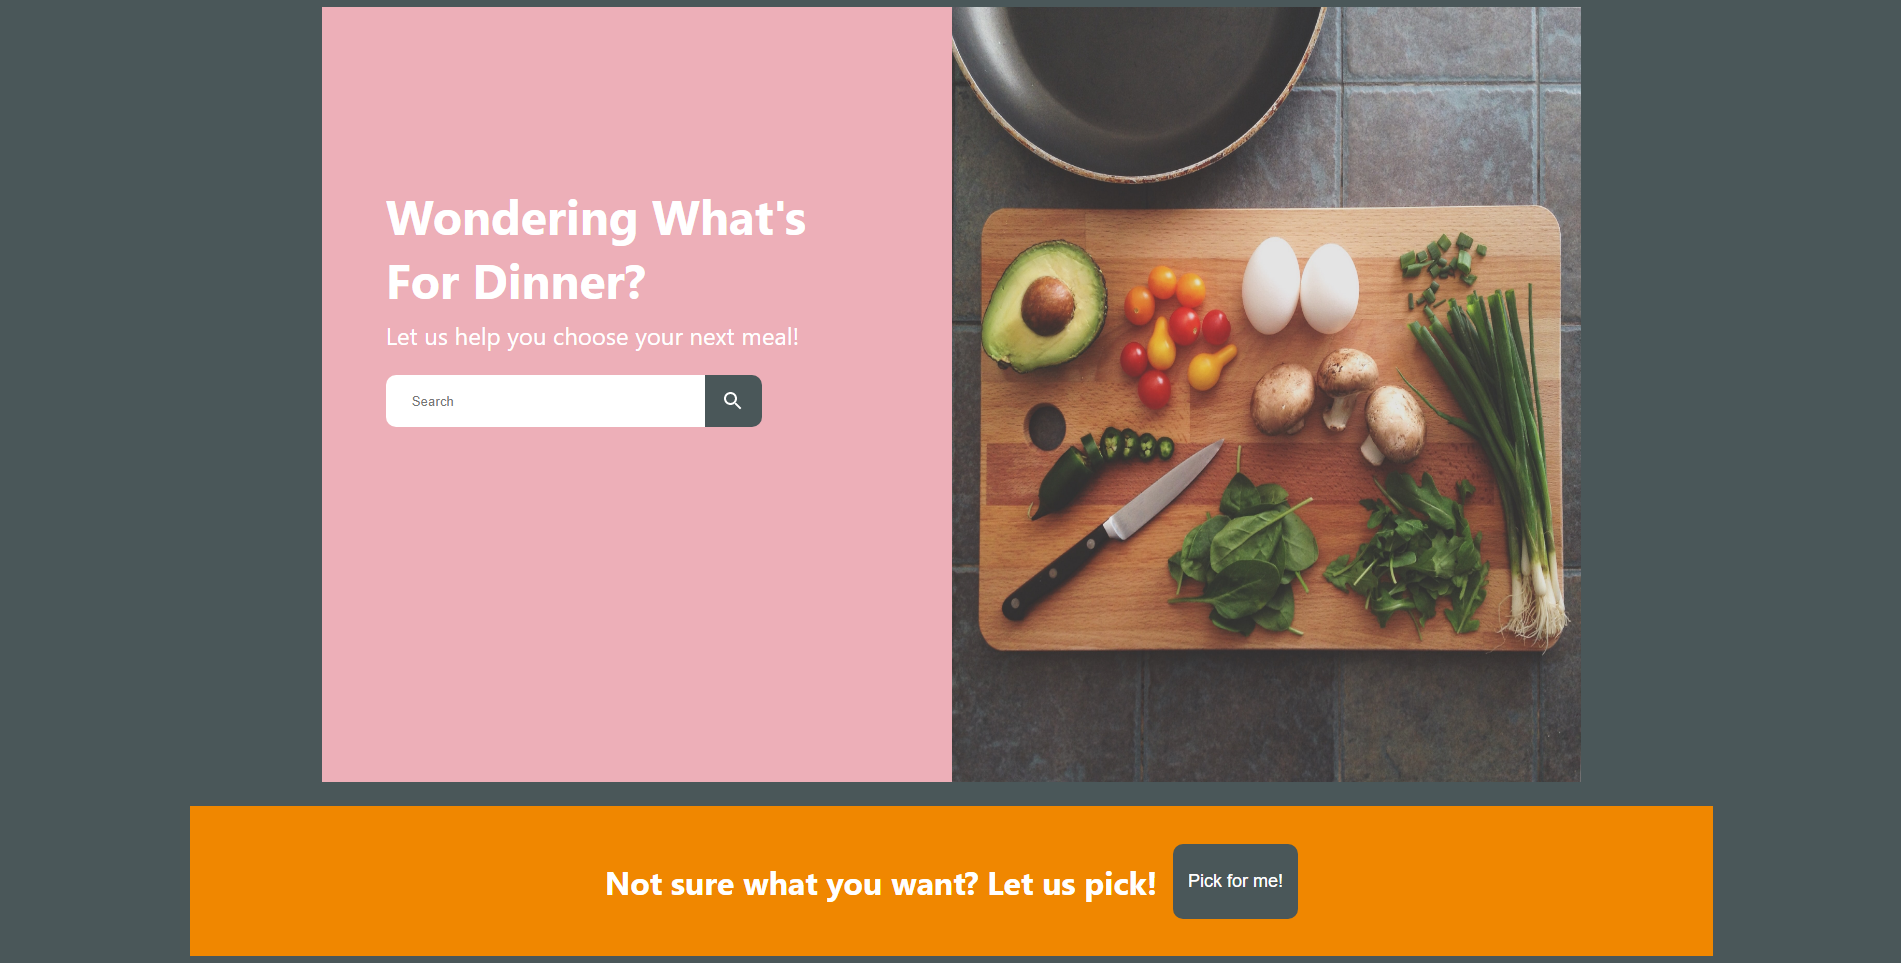
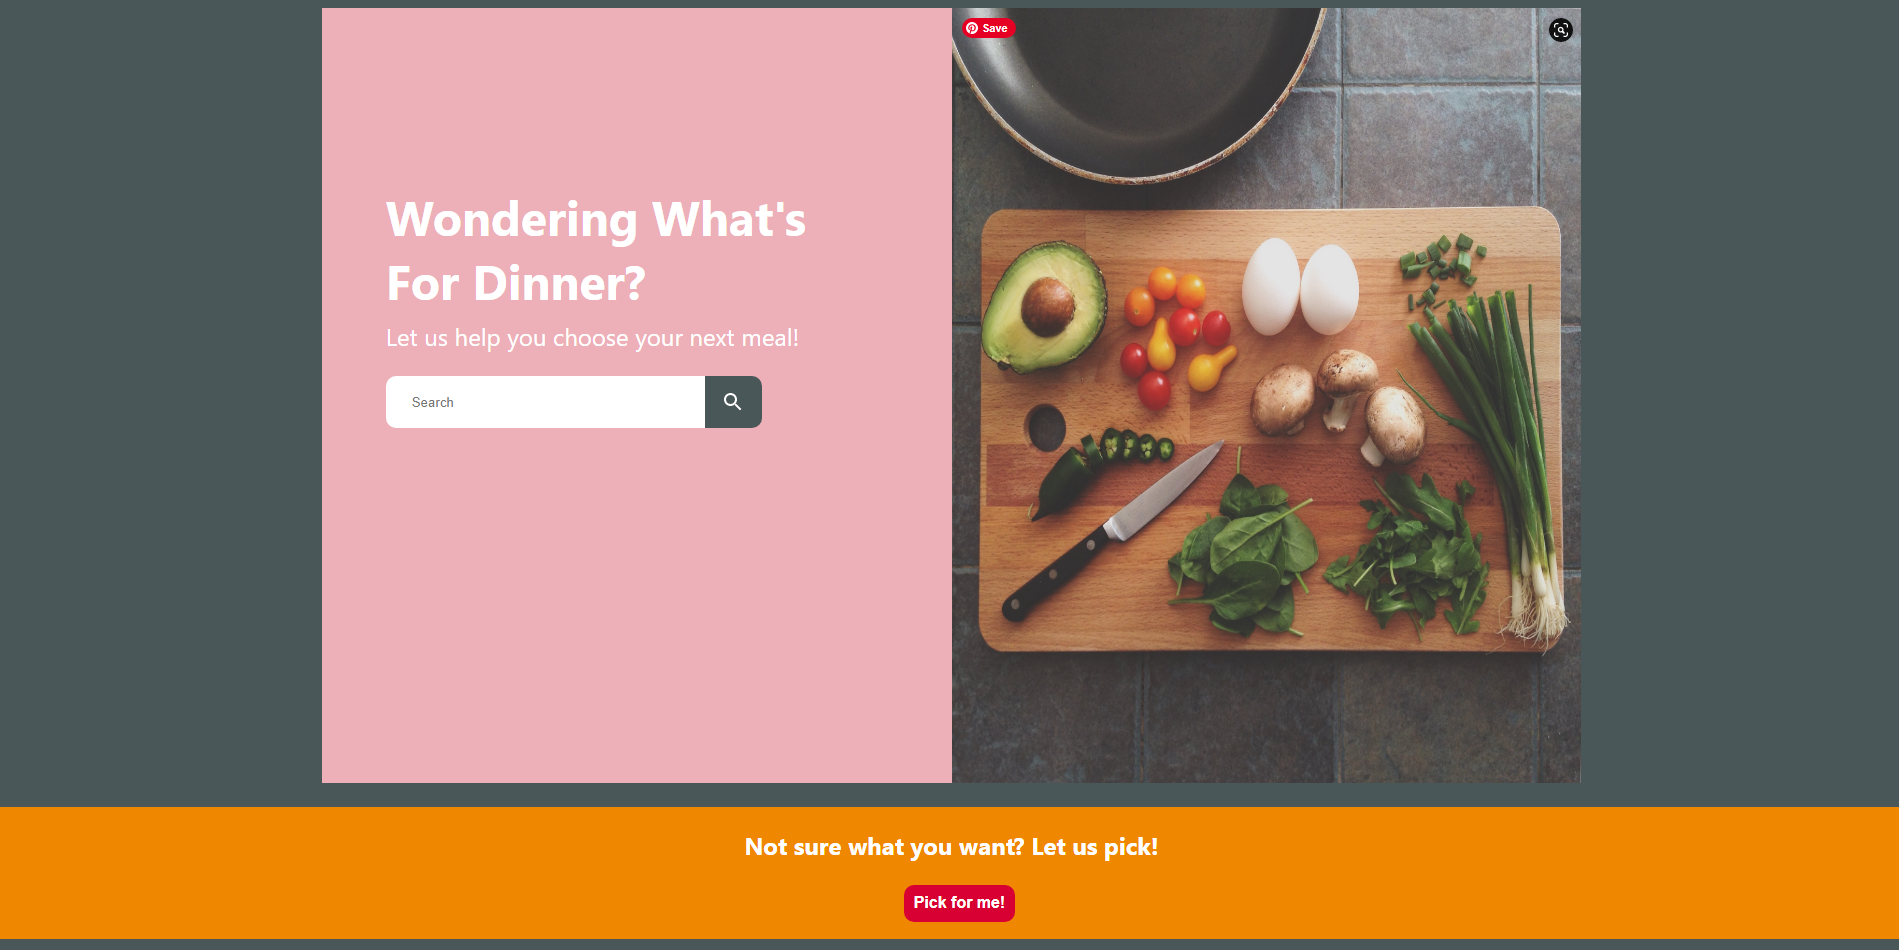
updated about, meal finder photo and buttons

diff --git a/src/components/About.js b/src/components/About.js
@@ -16,8 +16,8 @@ export const About = () => {
                 <div className='bottom right'></div>
                  <p className='story'> 
                  Prior to coding, I spent years searching for the right outlet to express my creativity. Acting, voice acting, even content creation on Twitch and Youtube once upon a time. 
-                 When I started to code in May 2021, I was shocked by how addicted I became. It reminded me of playing video games, which is my main hobby. I loved being able to solve complex problems and the sense of accomplishment I got as I learned and built new skills. 
-                 It was all I could ask for! A handful of Udemy courses, Fullstack Academy, and some side projects later, here I am actively looking for a company to grow with as a full stack web developer.
+                 When I started to learn how to code, I was shocked by how addicted I became. It reminded me of playing video games, which is my main hobby. I loved being able to solve complex problems and the sense of accomplishment I got as I learned and built new skills. 
+                 It was all I could ask for! I'm now currently looking for a company to grow with as a full stack web developer.
                 </p>
 
                 <p className='story'> When i'm not coding you can find me playing video games, cooking, or being forced to feed my two cats...by my two cats. </p>

diff --git a/src/components/Work.js b/src/components/Work.js
@@ -19,7 +19,7 @@ export const Work = () => {
                     <p className='project-description'> A react application made to help me and my wife decide what our next meal is going to be by providing recipe suggestions from the Spoontacular API.</p>
                     <b>React, Express, Node.js, Material-UI, Spoontacular API.</b>
                     <div className='project-links'> 
-                        <a className='demo-link' href='https://mealfinder-gs.herokuapp.com/' target='_blank'>Website</a>
+                        <a className='demo-link' href='https://meal-finder-jbsl.onrender.com/' target='_blank'>Website</a>
                         &nbsp;  &nbsp;
                         <a className='github-link' href='https://github.com/garysmith1933/MealFinder' target='_blank'>Github</a>
                     </div> 

diff --git a/src/components/Welcome.js b/src/components/Welcome.js
@@ -1,7 +1,7 @@
 export const Welcome = ({scrollToSection, WorkRef}) => {
    return (
     <div className='greeting-container'>
-        <h4 className="greeting-intro">Hi, my name is <span className='greeting-name'>Gary!</span> Yes, like the snail.</h4>
+        <h4 className="greeting-intro">Hi! My name is <span className='greeting-name'>Gary!</span> Yes, like the snail.</h4>
         <h1 className="greeting-detail">I enjoy making websites.</h1>
         <div className='button' onClick={() => scrollToSection(WorkRef)}>See my work</div>
     </div>

diff --git a/src/components/TechnicalSkills.js b/src/components/TechnicalSkills.js
@@ -6,7 +6,7 @@ export const TechnicalSkills = () => {
         <div className='facts-content'>
             <img src={code} alt='Skills'/>
             <h3 className='facts-title'>I got skills!</h3>
-            <p className='fact-text'>My technical skills include, <b>HTML5, CSS3, Javascript, React, Redux, Node.js, Express, and PostgreSQL.</b></p> 
+            <p className='fact-text'>My technical skills include, <b>HTML5, CSS3, Javascript, React, Redux, Typescript, Node.js, Express, and PostgreSQL.</b></p> 
         </div>
     
     

diff --git a/src/index.css b/src/index.css
@@ -134,11 +134,10 @@ a {
   justify-content: center;
   align-items: center;
   margin-top: 1rem;
+  transition: color, 0.5s;
 }
 
 .button:hover {
-  -webkit-transform: translateY(-1px);
-	transform: translateY(-1px);
   background-color:#0D00A4;
   color:#f1f2f3;
   border-color:#0D00A4;
@@ -483,7 +482,11 @@ Bodies
 
 .cta {
   background-color: #0D00A4;
-  box-shadow: rgba(100, 100, 111, 0.2) 0px 7px 29px 0px;
+  transition: background-color, 0.5s;
+}
+
+.cta:hover {
+  color: white;
 }
 
 .footer-container {
